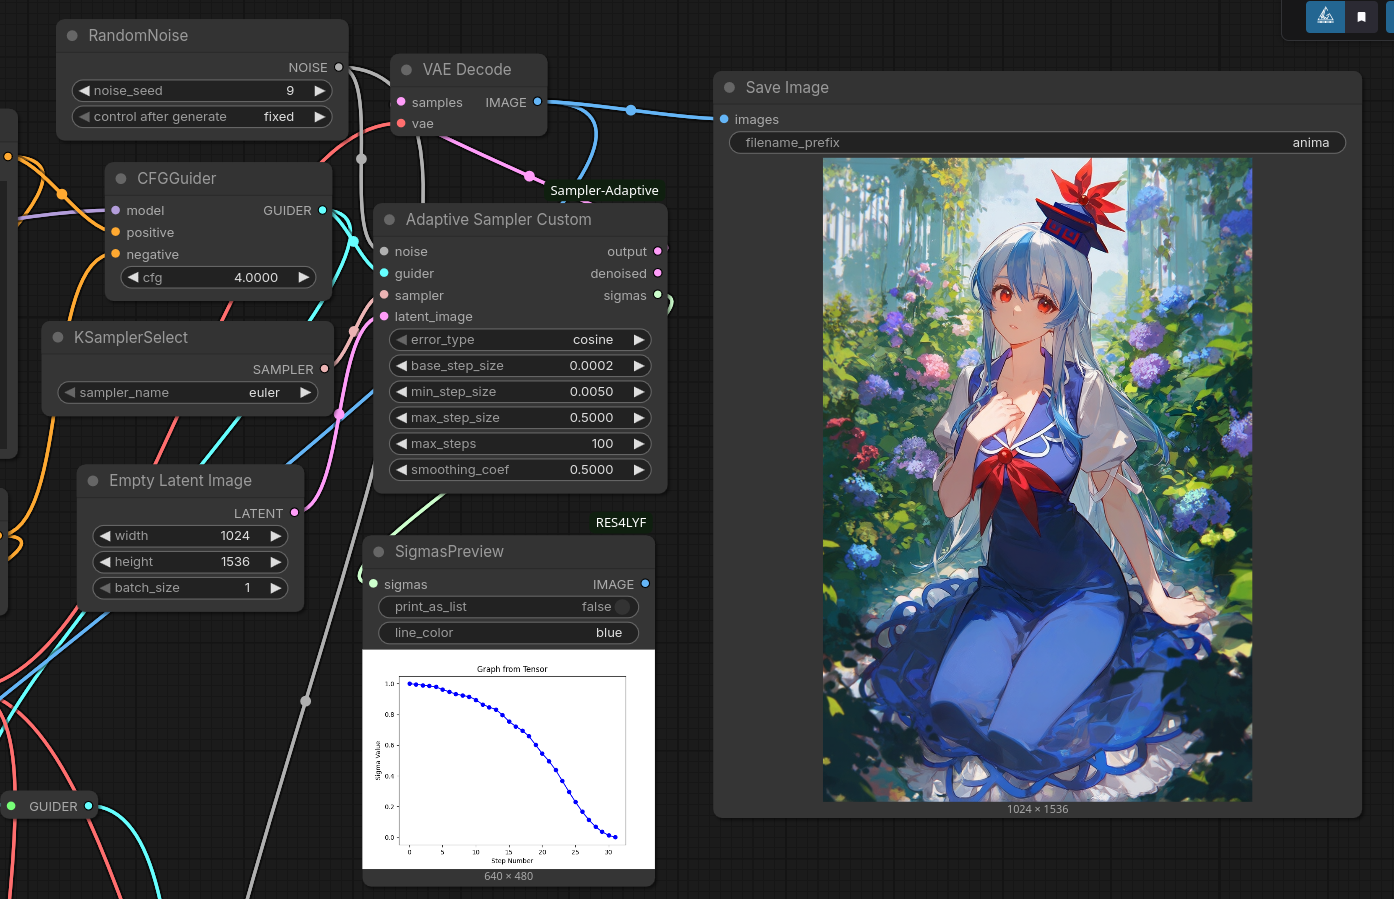
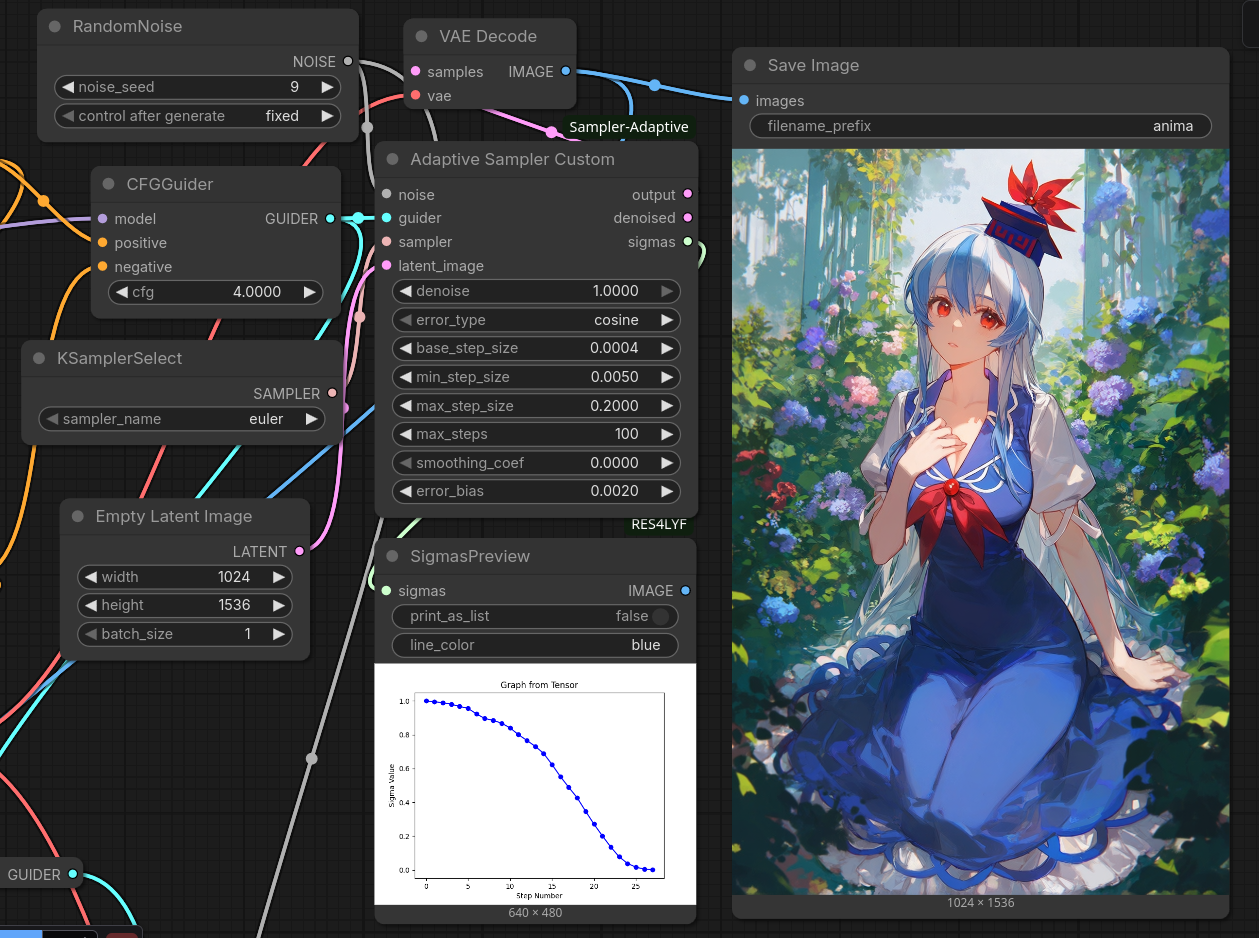
Add error_bias parameter, update showcase and workflow

diff --git a/adaptive_sampler.py b/adaptive_sampler.py
@@ -28,6 +28,8 @@ def sample_adaptive_custom(
     max_steps=100,
     smoothing_coef=0.5,
     sigma_schedule_out=None,
+    denoise=1.0,
+    error_bias=0.0,
 ):
     """Adaptive sampler that wraps another sampler with adaptive step sizes."""
     
@@ -39,7 +41,7 @@ def sample_adaptive_custom(
     sigma_min = model_sampling.sigma_min
     sigma_max = model_sampling.sigma_max
 
-    current_sigma = sigma_max
+    current_sigma = sigma_min + (sigma_max - sigma_min) * denoise
     step_size = min_step_size  # First step = smallest
 
     total_steps = 0
@@ -47,7 +49,7 @@ def sample_adaptive_custom(
     v_prev = None
     
     # Track sigma schedule
-    sigma_schedule = [sigma_max]
+    sigma_schedule = [current_sigma]
 
     denoised_capture = [None]
 
@@ -103,7 +105,7 @@ def sample_adaptive_custom(
             error_val = max(error.item(), 1e-10)
 
             # Adjust step size for next iteration: base_step_size / error
-            new_step_size = base_step_size / error_val
+            new_step_size = base_step_size / (error_val + error_bias)
             step_size = max(min_step_size, min(max_step_size, step_size * smoothing_coef + new_step_size * (1 - smoothing_coef)))
 
         v_prev = v_current
@@ -130,12 +132,14 @@ class AdaptiveSamplerCustom:
                 "guider": ("GUIDER",),
                 "sampler": ("SAMPLER",),
                 "latent_image": ("LATENT",),
+                "denoise": ("FLOAT", {"default": 1.0, "min": 0.0, "max": 1.0, "step": 0.01}),
                 "error_type": (["cosine", "mse"], {"default": "cosine"}),
                 "base_step_size": ("FLOAT", {"default": 0.0002, "min": 0.0001, "max": 1.0, "step": 0.0001}),
                 "min_step_size": ("FLOAT", {"default": 0.005, "min": 0.0001, "max": 1.0, "step": 0.0001}),
                 "max_step_size": ("FLOAT", {"default": 0.5, "min": 0.001, "max": 1.0, "step": 0.001}),
                 "max_steps": ("INT", {"default": 100, "min": 1, "max": 10000}),
                 "smoothing_coef": ("FLOAT", {"default": 0.5, "min": 0.0, "max": 1.0, "step": 0.01}),
+                "error_bias": ("FLOAT", {"default": 0.0, "min": 0.0, "max": 1.0, "step": 0.01}),
             }
         }
 
@@ -150,12 +154,14 @@ class AdaptiveSamplerCustom:
         guider,
         sampler,
         latent_image,
+        denoise=1.0,
         error_type="cosine",
         base_step_size=1.0,
         min_step_size=0.01,
         max_step_size=1.0,
         max_steps=100,
         smoothing_coef=0.5,
+        error_bias=0.0,
     ):
         latent = latent_image.copy()
         x = latent["samples"]
@@ -169,8 +175,10 @@ class AdaptiveSamplerCustom:
 
         # Create dummy sigmas for the wrapped sampler - we'll ignore them
         model_sampling = guider.model_patcher.get_model_object("model_sampling")
+        sigma_min = model_sampling.sigma_min
         sigma_max = model_sampling.sigma_max
-        sigmas = torch.tensor([sigma_max, 0.0], device=x.device, dtype=x.dtype)
+        start_sigma = sigma_min + (sigma_max - sigma_min) * denoise
+        sigmas = torch.tensor([start_sigma, 0.0], device=x.device, dtype=x.dtype)
 
         x0_output = {}
         callback = latent_preview.prepare_callback(guider.model_patcher, max_steps, x0_output)
@@ -196,6 +204,8 @@ class AdaptiveSamplerCustom:
                 max_steps=max_steps,
                 smoothing_coef=smoothing_coef,
                 sigma_schedule_out=sigma_schedule_out,
+                denoise=denoise,
+                error_bias=error_bias,
             )
 
         sampler_obj = KSAMPLER(adaptive_sampler_function, {})

diff --git a/README.md b/README.md
@@ -4,7 +4,7 @@ Adaptive sampling custom node for ComfyUI.
 
 ![Showcase](showcase.png)
 
-See `anima_00265_.png` for an example workflow.
+See `anima_00321_.png` for an example workflow.
 
 ## Known Limitations
 
@@ -19,4 +19,5 @@ See `anima_00265_.png` for an example workflow.
 - **min_step_size**: Minimum allowed step size
 - **max_step_size**: Maximum allowed step size
 - **max_steps**: Maximum number of adaptive steps
-- **smoothing_coef**: Smoothing coefficient for step size updates (0.0 = no smoothing, 1.0 = full smoothing)
+- **smoothing_coef**: EMA coefficient for step size updates. 0.0 = use only new calculated step size, 1.0 = keep previous step size unchanged, 0.5 = equal blend of old and new
+- **error_bias**: Bias added to error value in step size calculation (default: 0.0). Higher values result in smaller step sizes.
